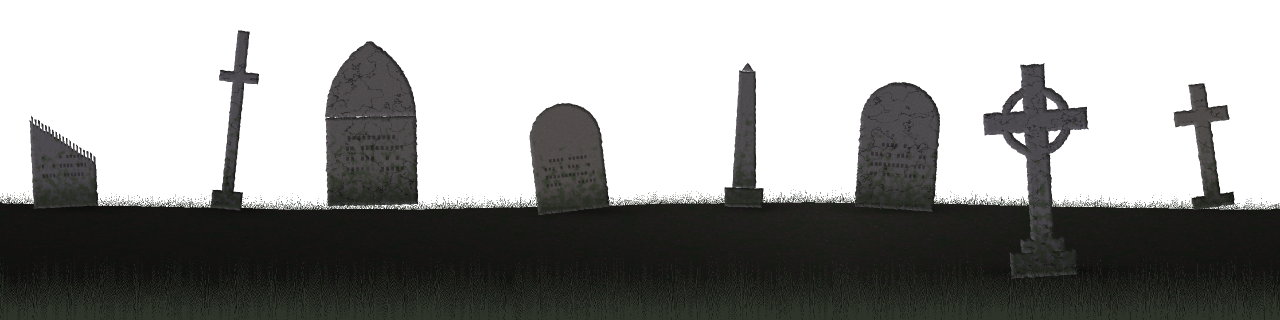
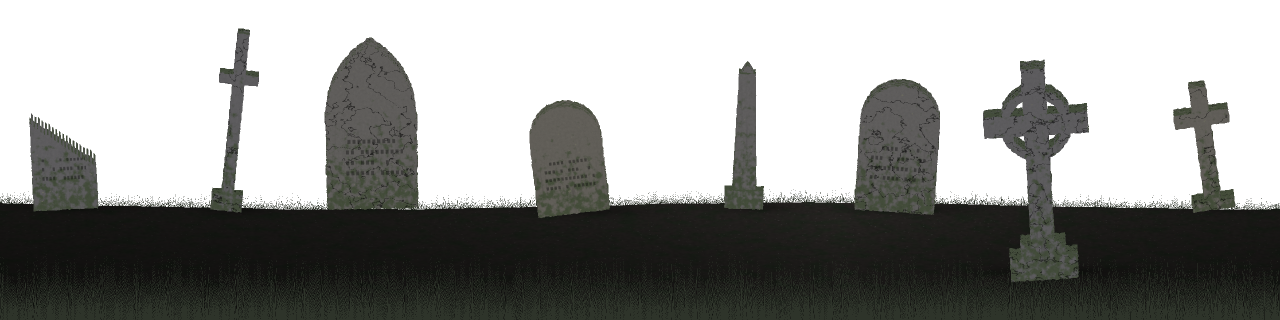
Halloween fase 20: cementerio (00) con lapidas en 3D
Las lapidas del cementerio y del primer plano se hornean como solidos 3D
por trazado de rayos (espesor, cantos gastados, cara de arriba visible,
musgo arriba) con su relieve (normal) y oclusion; la luz de la luna, el
contraluz y el relampago (desde el lado donde cae el rayo) se calculan en
vivo con ese relieve. +5 % de costo en el banco de prueba; mismos dos
atlas (la luna pasa a 256 px). Comparacion antes/ahora en docs/img.

Claude-Session: https://claude.ai/code/session_01NVP2u1MWPb16oy8b6RCqty

diff --git a/td/tools/bake_plates_cementerio.py b/td/tools/bake_plates_cementerio.py
@@ -28,12 +28,16 @@ PLATES = [
     # Medio en tres laminas para que D2 sume lapidas DE A UNA (sin saltos):
     #   2_medio_base     colinas, reja, suelo y pasto, sin lapidas (modo 1)
     #   3_medio_lapidas  solo las lapidas (modo 2)
-    #   7_lapidas_orden  R = en que punto de D2 aparece cada lapida (modo 3)
+    #   7_lapidas_normal relieve 3D y, en B, en que punto de D2 aparece cada lapida
     ('1_lejos', 0, (H0 + 0.12, H0 + 0.68), 0, 0.0, 0),
     ('2_medio_base', 1, (H0 - 0.40, H0 + 0.95), 0, 0.27, 1),
-    ('3_medio_lapidas', 1, (H0 - 0.40, H0 + 0.95), 0, 0.27, 2),
-    ('4_cerca', 2, (-1.30, 0.40), 0, 0.0, 0),
-    ('7_lapidas_orden', 1, (H0 - 0.40, H0 + 0.95), 0, 0.27, 3),
+    ('3_medio_lapidas', 5, (H0 - 0.40, H0 + 0.95), 0, 0.27, 0),
+    ('4_cerca', 3, (-1.30, 0.40), 0, 0.0, 0),
+    # relieve 3D (normal en RG) de las lapidas; A = hay lapida.
+    #   7_lapidas_normal  B = en que punto de D2 aparece cada lapida
+    #   8_cerca_normal    B = oclusion
+    ('7_lapidas_normal', 6, (H0 - 0.40, H0 + 0.95), 0, 0.27, 0),
+    ('8_cerca_normal', 4, (-1.30, 0.40), 0, 0.0, 0),
 ]
 W = 1280
 SS = 2  # supersampling
@@ -72,7 +76,8 @@ float tombShape(vec2 q, float w, float h, int type){
   if(type==0){ d = min(sdBox(q-vec2(0.,h*0.40),vec2(w,h*0.40)), length(q-vec2(0.,h*0.80))-w); }
   else if(type==1){ float b = sdBox(q-vec2(0.,h*0.38),vec2(w,h*0.38));
     float og = max(length(q-vec2(-w*0.9,h*0.76))-w*1.9, length(q-vec2(w*0.9,h*0.76))-w*1.9);
-    og = max(og, h*0.76-q.y-0.001); d = min(b, og); }
+    og = max(og, h*0.66-q.y);
+    float k=0.012, hh=clamp(0.5+0.5*(og-b)/k,0.,1.); d = mix(og,b,hh)-k*hh*(1.-hh); }
   else if(type==2){ float k=(q.y)/(h*0.85); float tw=w*0.55*(1.-0.35*clamp(k,0.,1.));
     float sh=max(abs(q.x)-tw, max(-q.y+h*0.12, q.y-h*0.85));
     float py=max(abs(q.x)*1.4+(q.y-h*0.85)-w*0.38, h*0.85-q.y);
@@ -327,6 +332,144 @@ vec4 plateMid(vec2 p){
   return vec4(col,a);
 }
 
+
+// ================= 3D (trazado de rayos) =================
+// Las lapidas como solidos: la silueta de siempre extruida con espesor,
+// cantos redondeados y gastados, y la cara de arriba a la vista (la
+// camara mira un poco hacia abajo). Salen el color SIN luz (albedo), el
+// relieve (normal en espacio de vista: x derecha, y arriba, z hacia el
+// que mira) y la oclusion; la luz la pone la escena en vivo.
+const vec3 RD = vec3(0.0, -0.25, 0.968);
+float solid(vec3 P, vec2 base, float tilt, float w, float h, int type, float seed, out vec2 qo){
+  vec2 q = rot(tilt)*(P.xy-base);
+  qo = q;
+  float d2 = tombShape(q,w,h,type);
+  float T = w*0.30 + 0.010;
+  float r = min(0.010, w*0.07);
+  vec2 dd = vec2(d2 + r, abs(P.z) - T + r);
+  float d = length(max(dd,0.)) + min(max(dd.x,dd.y),0.) - r;
+  // desgaste en 3D: picaduras y cantos comidos
+  if(d < 0.02) d += (gn(q*vec2(45.,45.)+P.z*31.+seed)-0.5)*0.0035 + (gn(q*140.+P.z*90.+seed)-0.5)*0.0012;
+  return d;
+}
+float nearSolid(vec3 P, out vec2 qo, out int ido){
+  float d=1e3; ido=-1; qo=vec2(0.);
+  for(int i=0;i<NN;i++){
+    vec4 a=nearA(i); vec2 b=nearB(i);
+    if(abs(P.x-a.x) > a.z*1.4+0.05) continue;
+    vec2 q; float di=solid(P,a.xy,b.y,a.z,a.w,int(b.x),float(i)*3.7+1.,q);
+    if(di<d){ d=di; ido=i; qo=q; }
+  }
+  return d;
+}
+float midSolid(vec3 P, out vec2 qo, out vec4 info){
+  float cx=floor(P.x/cellW); float d=1e3; qo=vec2(0.); info=vec4(0.);
+  for(int k=-1;k<=1;k++){
+    float id=cx+float(k);
+    if(h21(vec2(id,4.7))<0.30) continue;
+    float w=cellW*(0.16+0.12*h21(vec2(id,1.3)));
+    float h=cellW*(0.55+0.75*h21(vec2(id,9.1)));
+    float base=groundMid((id+0.5)*cellW)-0.01;
+    vec2 bxy=vec2((id+0.5+(h21(vec2(id,2.2))-0.5)*0.4)*cellW, base);
+    float r=h21(vec2(id,5.5));
+    int type = r<0.45?0:(r<0.62?1:(r<0.74?2:(r<0.90?3:4)));
+    vec2 q; float di=solid(P,bxy,(h21(vec2(id,7.7))-0.5)*0.35,w,h,type,id*1.3+7.,q);
+    if(di<d){ d=di; qo=q; info=vec4(w,h,id,float(type)); }
+  }
+  return d;
+}
+// marcha el rayo que pasa por el punto p de la lamina (en z = 0)
+// devuelve s del impacto o -1
+float march(vec2 p, int which, out vec3 P){
+  vec3 ro = vec3(p,0.) - RD*0.6;
+  float s=0.;
+  for(int i=0;i<90;i++){
+    P = ro + RD*s;
+    vec2 q; int id; vec4 inf;
+    float d = which==0 ? nearSolid(P,q,id) : midSolid(P,q,inf);
+    if(d<0.0004) return s;
+    s += max(d*0.8, 0.0006);
+    if(s>1.2) break;
+  }
+  return -1.;
+}
+vec3 normalAt(vec3 P, int which){
+  vec2 e=vec2(0.0008,0.); vec2 q; int id; vec4 inf;
+  #define SD(X) (which==0 ? nearSolid(X,q,id) : midSolid(X,q,inf))
+  vec3 n = vec3(SD(P+e.xyy)-SD(P-e.xyy), SD(P+e.yxy)-SD(P-e.yxy), SD(P+e.yyx)-SD(P-e.yyx));
+  #undef SD
+  n = normalize(n);
+  return vec3(n.x, n.y, -n.z);   // z hacia el que mira
+}
+// albedo de la piedra (sin luz) y su relieve fino (gradiente de altura)
+vec3 stoneAlbedo(vec3 P, vec2 q, vec3 n, float w, float h, float seed, int type, float detail, out vec2 bumpG){
+  // cara del frente o de arriba/costado: coordenadas de textura
+  vec2 tp = abs(n.z)>0.6 ? q : vec2(q.x + P.z*0.7, q.y*0.3 + P.z*2.0);
+  float bump = fbm(tp*70.+seed,5)*0.6 + fbm(tp*190.+seed,3)*0.4;
+  float e=0.003;
+  bumpG = vec2(fbm((tp+vec2(e,0.))*38.+seed,4)-fbm((tp-vec2(e,0.))*38.+seed,4), fbm((tp+vec2(0.,e))*38.+seed,4)-fbm((tp-vec2(0.,e))*38.+seed,4))*0.9*detail;
+  vec3 base = mix(vec3(0.42,0.41,0.44), vec3(0.47,0.44,0.38), h21(vec2(seed,1.)));
+  base *= 0.75+0.45*bump;
+  float streak = fbm(vec2(q.x*55.+seed, q.y*4.),4);
+  base *= 1.-0.35*smoothstep(0.5,0.8,streak)*smoothstep(h,0.,q.y);
+  float mossN = fbm(tp*28.+seed*3.,5);
+  // el musgo crece abajo y ARRIBA (donde junta agua), no en el frente liso
+  float topK = smoothstep(0.3,0.8,n.y);
+  float moss = smoothstep(0.45,0.70, mossN + (1.-q.y/max(h,0.01))*0.35 - 0.2 + topK*0.35)*detail;
+  base = mix(base, vec3(0.16,0.24,0.10)*(0.7+0.6*bump), moss*0.85);
+  float lich = smoothstep(0.70,0.78,fbm(tp*45.+seed*9.,4))*detail;
+  base = mix(base, vec3(0.62,0.62,0.42), lich*0.6);
+  float cr = ridgeN(fbm(tp*vec2(7.,10.)+seed*2.,5));
+  float crack = smoothstep(0.975,0.995,cr)*detail*step(0.45,h21(vec2(seed,9.)));
+  base *= 1.-crack*0.85;
+  // inscripcion grabada (solo en el frente): oscura y con relieve
+  if((type==0||type==1||type==4) && detail>0.5 && n.z>0.6){
+    for(int r=0;r<4;r++){
+      float ry = h*(0.58 - float(r)*0.09);
+      float rw = w*(r==0?0.55:0.70);
+      if(abs(q.y-ry)<h*0.022 && abs(q.x)<rw){
+        float ch = floor((q.x+rw)/(w*0.11));
+        float on = step(0.25, h21(vec2(ch+seed*3., float(r))));
+        float cx = fract((q.x+rw)/(w*0.11));
+        float yy = (q.y-ry)/(h*0.022);
+        float ins = on*smoothstep(0.15,0.25,cx)*smoothstep(0.85,0.75,cx)*(1.-smoothstep(0.6,1.0,abs(yy)));
+        if(type==4 && q.y>h*0.50) ins=0.;
+        base *= 1.-ins*0.6;
+        bumpG += vec2(0., -sign(yy)*ins*0.8);       // el surco: bordes de arriba y abajo inclinados
+      }
+    }
+  }
+  return base;
+}
+// lamina 3D: modo 0 albedo (y A cobertura), 1 normal/oclusion/orden
+vec4 plate3D(vec2 p, int which, int mode){
+  vec3 P;
+  float s = march(p, which, P);
+  if(s < 0.){
+    return vec4(0.5,0.5,1.,0.)*float(mode==1);
+  }
+  vec3 n = normalAt(P, which);
+  vec2 q; int id; vec4 inf; float w,h,seed; int type; float detail;
+  if(which==0){ nearSolid(P,q,id); vec4 A=nearA(id); vec2 B=nearB(id); w=A.z; h=A.w; seed=float(id)*3.7+1.; type=int(B.x); detail=1.; }
+  else { midSolid(P,q,inf); w=inf.x; h=inf.y; seed=inf.z*1.3+7.; type=int(inf.w); detail=0.75; }
+  vec2 bg;
+  vec3 alb = stoneAlbedo(P,q,n,w,h,seed,type,detail,bg);
+  // oclusion: cerca del suelo y en los recovecos (dos muestras a lo largo de la normal)
+  vec2 q2; int i2; vec4 inf2;
+  vec3 nw = vec3(n.x,n.y,-n.z);
+  float o1 = which==0 ? nearSolid(P+nw*0.01,q2,i2) : midSolid(P+nw*0.01,q2,inf2);
+  float o2 = which==0 ? nearSolid(P+nw*0.03,q2,i2) : midSolid(P+nw*0.03,q2,inf2);
+  float ao = clamp(0.45 + 0.55*(o1/0.01*0.4 + o2/0.03*0.6), 0., 1.);
+  ao *= mix(0.40, 1.0, smoothstep(0.0, h*0.35, q.y));
+  vec3 nb = normalize(n + vec3(-bg, 0.)*0.35);
+  if(mode==1){
+    float ord = which==1 ? h21(vec2(inf.z,31.0)) : 0.;
+    return vec4(nb.xy*0.5+0.5, which==1 ? ord : ao, 1.);   // A = hay lapida
+  }
+  // el albedo va con la oclusion de la lapida del medio (la del cercano va en B)
+  return vec4(alb*0.13*(which==1 ? ao*0.85 : 1.), 1.);
+}
+
 // ---------------- escena lejana ----------------
 // R: luz, G: 0 sierra lejana / 1 sierra de pinos, A: cobertura
 vec4 plateFar(vec2 p){
@@ -370,6 +513,21 @@ void main(){
   vec2 p = mix(rect.xy, rect.zw, vUV);
   vec4 c;
   if(plate==0){ c = plateFar(p); fc = vec4(c.rgb, c.a); return; }
+  // 3D: 3 = cercana albedo, 4 = cercana normal + oclusion,
+  //     5 = lapidas del medio albedo, 6 = su normal + orden
+  if(plate>=3){
+    int which = plate<=4 ? 0 : 1;
+    int mode = (plate==4||plate==6) ? 1 : 0;
+    c = plate3D(p, which, mode);
+    if(mode==1){ fc = c; return; }
+    if(which==0){
+      // la cercana: suelo y pasto de siempre (con su luz horneada), lapidas 3D encima
+      vec4 base = plateNear(p);
+      vec3 P; float s = march(p, 0, P);
+      if(s>=0.){ fc = vec4(pow(clamp(c.rgb*2.0,0.,1.),vec3(1./2.2)), 1.); return; }
+      c = base;
+    }
+  } else
   if(plate==1) c = plateMid(p); else c = plateNear(p);
   // codificacion: col lineal x2 con gamma 2.2 (ver plateCol() en la escena)
   fc = vec4(pow(clamp(c.rgb*2.0,0.,1.),vec3(1./2.2)), c.a);
@@ -478,7 +636,7 @@ def bake():
         print('lamina', name, im.size)
 
     src = FRAG % dict(h0=H0)
-    for old in ('2_medio_pocas', '3_medio_muchas'):
+    for old in ('2_medio_pocas', '3_medio_muchas', '7_lapidas_orden'):
         if os.path.isfile(os.path.join(OUT, old + '.png')):
             os.remove(os.path.join(OUT, old + '.png'))
     for name, pid, (y0, y1), _, cell, mode in PLATES:
@@ -487,8 +645,8 @@ def bake():
         save(down(img, SS), name)
     # textura de ruido (se repite): 1024 x 512
     save(run(NOISE_FRAG, 1024, 512, {}), '5_ruido')
-    # luna 512 x 512
-    save(down(run(MOON_FRAG, 1024, 1024, {}), 2), '6_luna')
+    # luna 256 x 256 (en pantalla mide ~120 px; deja lugar en el atlas al relieve)
+    save(down(run(MOON_FRAG, 1024, 1024, {}), 4), '6_luna')
     print('-> ' + OUT)
     for name, pid, (y0, y1), _, cell, mode in PLATES:
         print('  %s: x %.2f..%.2f  y %.3f..%.3f' % (name, X0, X1, y0, y1))

diff --git a/docs/53_SETS_Y_HALLOWEEN.md b/docs/53_SETS_Y_HALLOWEEN.md
@@ -248,15 +248,18 @@ Una escena puede traer **láminas**: capas PNG con lo que no se mueve (sierra, c
 - **Dónde van:** `td/sets/<set>/plates/sceneNN/*.png`. Entran al GLSL TOP después de ctrl (y de media), en orden alfabético. En el `.frag` se leen con `plate0(uv)`, `plate1(uv)`… y con `plateNWrap(uv)` para las texturas que se repiten.
 - **Cuándo se cargan:** el build crea un Movie File In TOP por lámina. Si se agregan o quitan láminas, o se mueve la carpeta `td/`, hay que hacer **Reconstruir Todo**. Si solo cambia el contenido de un PNG, alcanza con recargar el archivo.
 - **Tamaño:** máximo 1280 px por lado (licencia Non-Commercial). `test_sets.py` lo verifica.
-- **Escena 00:** `python3 td/tools/bake_plates_cementerio.py` vuelve a generar sus 6 láminas:
+- **Escena 00:** `python3 td/tools/bake_plates_cementerio.py` vuelve a generar sus 8 láminas (después, `build_atlas.py`):
 
 | Lámina | Qué es |
 |---|---|
 | `1_lejos` | sierras y capilla: R luz, G cuál sierra, B ventanas, A cobertura |
-| `2_medio_pocas` y `3_medio_muchas` | colinas, reja y lápidas; D2 pasa de una a otra |
-| `4_cerca` | lápidas cercanas, cruz celta, suelo y pasto |
+| `2_medio_base` | colinas, reja, suelo y pasto (sin lápidas) |
+| `3_medio_lapidas` | lápidas del cementerio en 3D: color sin luz |
+| `4_cerca` | lápidas cercanas y cruz celta en 3D (color sin luz), suelo y pasto |
 | `5_ruido` | ruido que se repite: R nubes, G y B niebla, A detalle |
-| `6_luna` | luna con cráteres |
+| `6_luna` | luna con cráteres (256 px) |
+| `7_lapidas_normal` | relieve 3D de las lápidas del medio (RG) y, en B, en qué punto de D2 aparece cada una |
+| `8_cerca_normal` | relieve 3D de las cercanas (RG) y su oclusión (B) |
 
 - **Codificación del color:** las láminas de color guardan color lineal ×2 con gamma 2.2; la escena lo decodifica con `plateCol()`.
 - **Reemplazarlas por fotos o arte:** sirve cualquier PNG con el mismo nombre y el mismo encuadre (ver las constantes `FAR_Y`, `MID_Y` y `NEAR_Y` en la escena).
@@ -333,7 +336,7 @@ En la MacBook, un GLSL TOP con **más de 3 texturas de entrada no compila** ("Th
 
 | Escena | Piano | Clímax |
 |---|---|---|
-| 00 | Un alma por tecla que sube de la tumba. D2 suma lápidas de a una, que suben de la tierra (láminas `2_medio_base`, `3_medio_lapidas`, `7_lapidas_orden`) | Nubes tapan la luna → luna roja, temblor y almas → niebla rojiza |
+| 00 | Un alma por tecla que sube de la tumba. D2 suma lápidas de a una, que suben de la tierra (láminas `2_medio_base`, `3_medio_lapidas`, `7_lapidas_normal`) | Nubes tapan la luna → luna roja, temblor y almas → niebla rojiza |
 | 01 | Llamas flotantes que iluminan pared y mesa; una tecla fuerte hace reír | Viento → apagón con ojos rojos → llamarada |
 | 02 | Calaveritas de neón en la pared que también la iluminan | Los carteles fallan de a uno → apagón con relámpagos → vuelven en cadena |
 | 03 | Pares de ojos nuevos; D1 los abre de a uno | Se cierran todos → ojo gigante que mira y fija la mirada → vuelven |
@@ -459,3 +462,20 @@ Feria vieja de noche (`bake_plates_carnaval.py`, geometría compartida `// >>> C
 - **Eventos:** se corta una guirnalda cada ~63 s; una góndola se queda balanceando cada ~81 s.
 - Va al final de la noche, antes del glitch demoníaco (19).
 - **Reconstruir Todo:** escena y láminas nuevas.
+
+## Fase 20: cementerio en 3D (prueba de realismo)
+
+![Antes y ahora](img/cementerio_2d_vs_3d.jpg)
+
+![Detalle](img/cementerio_2d_vs_3d_detalle.jpg)
+
+Las lápidas de la escena 00 dejaron de ser siluetas con luz pintada: se hornean como **sólidos 3D** por trazado de rayos (`bake_plates_cementerio.py`, sección 3D). Tienen espesor, cantos redondeados y gastados, la cara de arriba a la vista (la cámara mira un poco hacia abajo) y musgo donde junta agua. El horneado saca el color **sin luz** y el **relieve** (normal) de cada píxel; la luz se calcula en vivo (`stoneLight` en la escena):
+
+- la luna desde arriba a la derecha, con el lado en sombra más oscuro;
+- un contraluz que enciende los cantos y las caras de arriba;
+- un brillo húmedo suave;
+- el **relámpago desde el lado donde cae el rayo**, que cambia en cada golpe.
+
+**Costo:** +5 % frente a la versión 2D en el banco de prueba (0,206 contra 0,195 s); el relieve entra en los mismos dos atlas, sin achicar nada (la luna pasó a 256 px). Hay que confirmar los FPS en TD. Si convence, el mismo camino sirve para las demás escenas con objetos sólidos (calabaza, mansión, troncos del bosque, torre del reloj).
+
+**Reconstruir Todo:** cambiaron las láminas de la escena 00.

diff --git a/CLAUDE.md b/CLAUDE.md
@@ -32,3 +32,4 @@ Trabajar en una rama; hacer **commit y push**. Desde el 21 de octubre de 2026: *
 - **Fase 17** (rama `claude/halloween-f17-bosque-faroles`, sobre f16): escena 28 bosque de faroles (16 faroles en 3 capas con paralaje). 
 - **Fase 18** (rama `claude/halloween-f18-morgue`, sobre f17): escena 29 morgue (luz de tubos en vivo con la profundidad horneada). 
 - **Fase 19** (rama `claude/halloween-f19-carnaval`, sobre f18): escena 30 carnaval abandonado (rueda, carrusel y focos en vivo; el payaso del clímax).
+- **Fase 20** (rama `claude/halloween-f20-cementerio-3d`, sobre f19): prueba de realismo en la escena 00: lápidas horneadas como sólidos 3D con normal, luz en vivo (`stoneLight`). Comparación en docs/img/cementerio_2d_vs_3d*.jpg.
